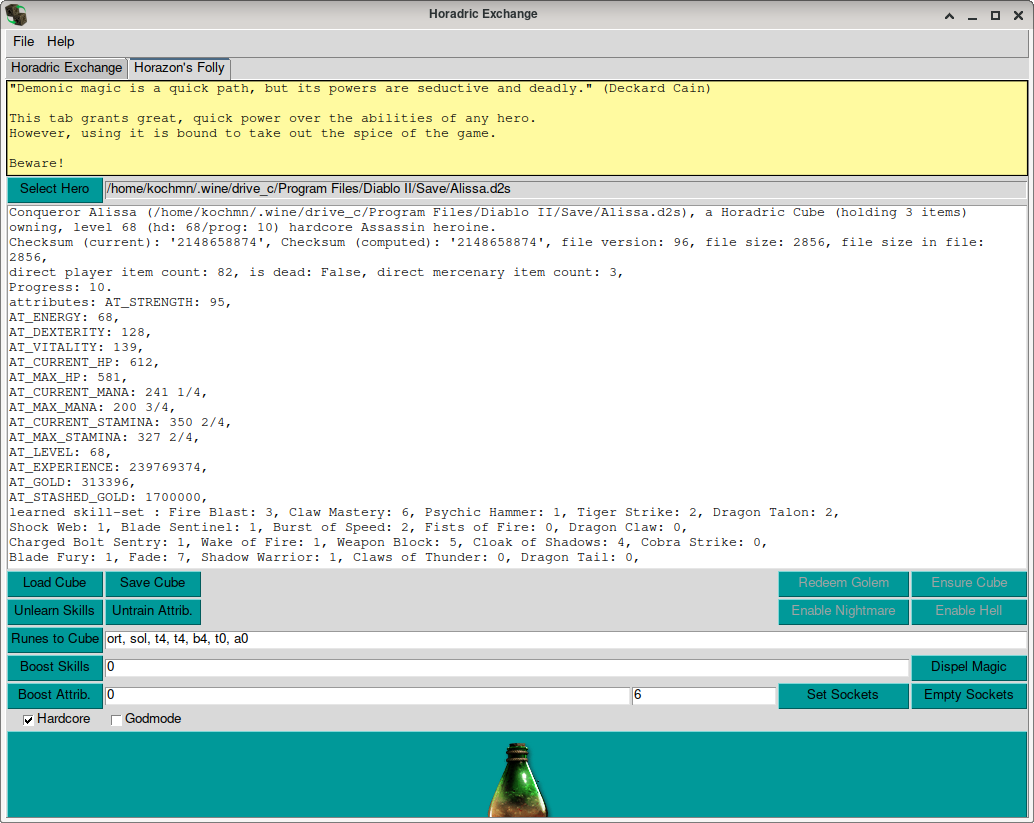
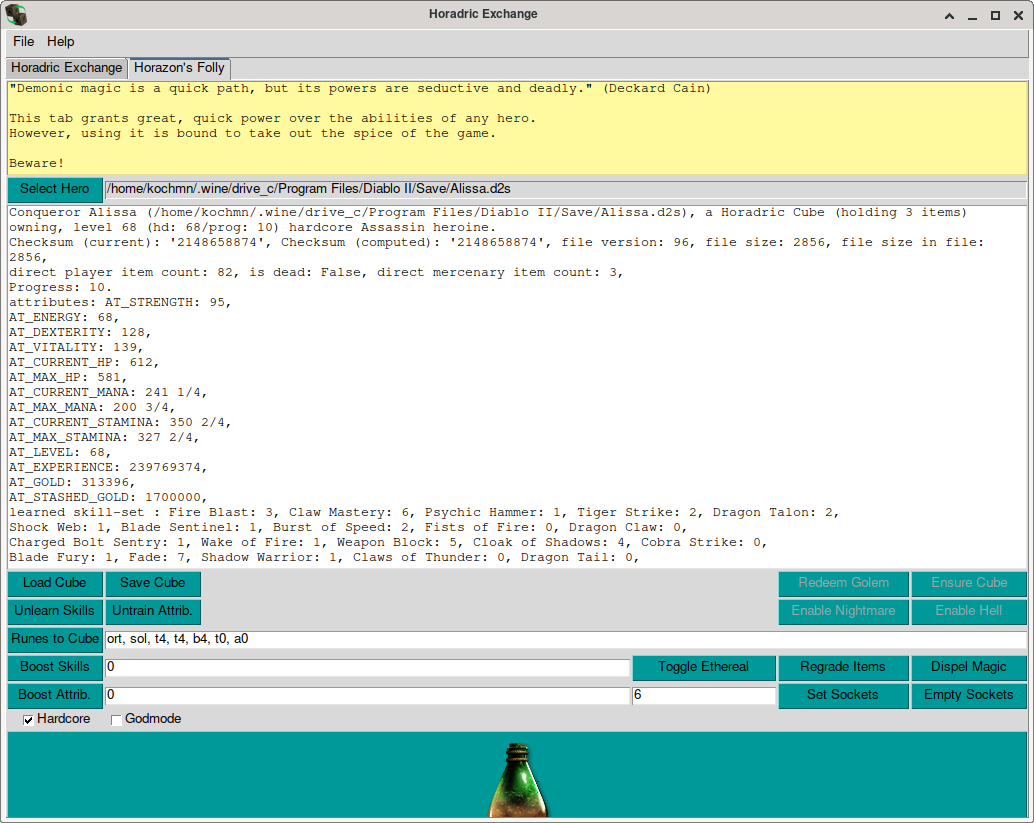
feat(hf/GUI): Completed item regrading and ethereal toggling.
Now with proper durability and defense value updates.

Changed region(s): [[0.0, 0.0, 1.0, 0.0304], [0.588, 0.7898, 0.8975, 0.8505]]

diff --git a/src/horazons_folly.py b/src/horazons_folly.py
@@ -1056,6 +1056,34 @@ class Item:
         return self.quality in (E_Quality.EQ_MAGICALLY_ENHANCED, E_Quality.EQ_RARE, E_Quality.EQ_SET, E_Quality.EQ_UNIQUE)
 
     @property
+    def is_ethereal(self) -> Optional[bool]:
+        return self.get_item_property(E_ItemBitProperties.IP_ETHEREAL)
+
+    @is_ethereal.setter
+    def is_ethereal(self, enable: bool):
+        if self.is_analytical or not (self.is_weapon or self.is_armor):
+            return
+        is_eth = self.get_item_property(E_ItemBitProperties.IP_ETHEREAL)
+        if is_eth is None or is_eth == enable:
+            return  # << Nothing to do.
+        #dur_cur, dur_max = self.durability
+        dur_max = self.durability[1]
+        ac = self.defense
+        # https://diablo.fandom.com/wiki/Ethereal_Items_(Diablo_II)
+        if ac is not None:
+            ac = round(ac * (1.5 if enable else 0.67))
+        if enable:
+            #dur_cur = round(dur_cur / 2.0 + 1)
+            dur_max = round(dur_max / 2.0 + 1)
+        else:
+            #dur_cur = round((dur_cur-1) * 2.0)
+            dur_max = round((dur_max-1) * 2.0)
+        self.data_item = self.copy_with_item_property_set(E_ItemBitProperties.IP_ETHEREAL, enable)
+        if ac is not None:
+            self.defense = ac
+        self.durability = dur_max
+
+    @property
     def is_armor(self) -> Optional[bool]:
         if self.is_analytical:
             return None
@@ -1160,7 +1188,7 @@ class Item:
         bm = bytes2bitmap(self.data_item)
         if len(bm) < 150:
             return None
-        return get_range_from_bitmap(bm, 144, 150)  # << [2] states 7 bits volume [143:150]. However, [144:150] seems better.
+        return get_range_from_bitmap(bm, 143, 150)  # << [2] states 7 bits volume [143:150]. However, [144:150] seems better.
 
     @item_level.setter
     def item_level(self, ilevel: int):
@@ -1171,7 +1199,7 @@ class Item:
         bm = bytes2bitmap(self.data_item)
         if len(bm) < 150:
             return
-        bm = set_range_to_bitmap(bm, 144, 150, ilevel)
+        bm = set_range_to_bitmap(bm, 143, 150, ilevel)
         self.data_item = bitmap2bytes(bm)
 
     @property
@@ -1219,20 +1247,40 @@ class Item:
             val = val - 10
         return val
 
+    @defense.setter
+    def defense(self, val: int):
+        index_ext = self.get_extended_item_index()
+        if index_ext is None or val is None or E_ExtProperty.EP_DEFENSE not in index_ext:
+            return
+        index = index_ext[E_ExtProperty.EP_DEFENSE]
+        if index[1] - index[0] != 11:
+            return
+        # [Note: For some reason the armor value is saved as 10 points below the true value.]
+        val += 10
+        if val >= 2**11:
+            val = (2**11) - 1
+        elif val <= 10:
+            return
+        bvalr = ('{:0{width}b}'.format(val, width = 11))[::-1]
+        bmr = bytes2bitmap(self.data_item)[::-1]
+        bmr = bmr[:index[0]] + bvalr + bmr[index[1]:]
+        bm = prefix_bitmap_to_8_product(bmr[::-1])
+        self.data_item = bitmap2bytes(bm)
+
     @property
-    def durability(self) -> Optional[str]:
-        """:returns string (current durability/maximum durability) for this Item. Or None if not applicable."""
+    def durability(self) -> Optional[Tuple[int,int]]:
+        """:returns int Tuple (current durability/maximum durability) for this Item. Or None if not applicable."""
         val = self.get_extended_item_int_value(E_ExtProperty.EP_DURABILITY)
         if val is None:
             return None
         else:
-            return f"{val >> 8}/{val & 255}"
+            return (val >> 8), (val & 255)
 
     @durability.setter
     def durability(self, dur: int):
         """Sets current/max durability of this item to ac_max/ac_max.
         :param dur in 1..255. If anywhere else, nothing will be done."""
-        if self.is_analytical or dur <= 0 or dur > 255:
+        if self.is_analytical or dur is None or dur <= 0 or dur > 255:
             return
         index_ext = self.get_extended_item_index()
         if E_ExtProperty.EP_DURABILITY not in index_ext:
@@ -1255,28 +1303,13 @@ class Item:
             return
         self.durability = d_armor_weapons[code][0]
 
-    def armor2default(self, p: float = 0.5):
+    def defense2default(self, p: float = 0.5):
         """Sets this item's armor value (if any is present) to (p * ac_max + (1-p) * ac_min)."""
         code = self.type_code
         if not code in d_armor_weapons:
             return
-        index_ext = self.get_extended_item_index()
-        if not E_ExtProperty.EP_DEFENSE in index_ext:
-            return
-        index = index_ext[E_ExtProperty.EP_DEFENSE]
-        if index[1] - index[0] != 11:
-            return
-        # [Note: For some reason the armor value is saved as 10 points below the true value.]
-        val = round((1.0 - p) * d_armor_weapons[code][1] + p * d_armor_weapons[code][2]) + 10  # type: int
-        if val >= 2**11:
-            val = (2**11) - 1
-        elif val <= 10:
-            return
-        bvalr = ('{:0{width}b}'.format(val, width = 11))[::-1]
-        bmr = bytes2bitmap(self.data_item)[::-1]
-        bmr = bmr[:index[0]] + bvalr + bmr[index[1]:]
-        bm = prefix_bitmap_to_8_product(bmr[::-1])
-        self.data_item = bitmap2bytes(bm)
+        val = round((1.0 - p) * d_armor_weapons[code][1] + p * d_armor_weapons[code][2])  # type: int
+        self.defense = val
 
     @property
     def stack(self) -> Optional[int]:
@@ -1740,9 +1773,15 @@ class Item:
             if known_mods_str:
                 known_mods_str += "\n"
 
+            dur = self.durability
+            if dur is None:
+                dur = 'n.a.'
+            else:
+                dur = f"{dur[0]}/{dur[1]}"
+
             bm_col_row_split = f"{bm[:65]} {bm[65:69]} {bm[69:72]} {bm[72:76]} {bm[76:144]} {bm[144:150]} {bm[150:154]} {bm[154:]}"
             return f"Item '{self.type_name}' ({len(self.data_item)} bytes) ({classification}) {self.item_block.name} #{self.index_item_block} personalization: '{self.personalization}', index: ({self.index_start}, {self.index_end})\n" \
-                f"Max size in inventory: {self.volume}, Defense (base): {self.defense}, Durability (base): {self.durability}, Stack: {self.stack},\n" \
+                f"Max size in inventory: {self.volume}, Defense (base): {self.defense}, Durability (base): {dur}, Stack: {self.stack},\n" \
                 f"Parent: {self.item_parent.name}, Storage: {self.stash_type.name}, (r:{self.row}, c:{self.col}), Equip: {self.item_equipped.name}\n" \
                 f"{props}\ntype code: {self.type_code}, quality: {self.quality}, ilevel: {self.item_level}, is charm: {self.is_charm}, Bit length: {bl} ({bl/8} bytes)\n" \
                 f"{known_mods_str}" \
@@ -2497,15 +2536,16 @@ this page was an excellent source for that: https://github.com/WalterCouto/D2CE/
             enable = not item.get_item_property(E_ItemBitProperties.IP_ETHEREAL)
         if item.get_item_property(E_ItemBitProperties.IP_ETHEREAL) == enable:
             return  # << Nothing to do.
-        bts = item.copy_with_item_property_set(E_ItemBitProperties.IP_ETHEREAL, enable)
-        if not bts:
-            return
-        self.data = self.data[:item.index_start] + bts + self.data[item.index_end:]
+        item.is_ethereal = enable
+        self.data = self.data[:item.index_start] + item.data_item + self.data[item.index_end:]
         print(f"Attempting to set item '{item.type_name}' to {'' if enable else 'not '}ethereal.")
 
     def regrade(self, item, grade: Optional[E_ItemGrade] = None):
         """Upgrade or downgrade the given item along the lines of normal, exceptional, elite, post-elite."""
         if item.is_analytical or (grade is not None and grade.value not in (0,1,2,3)):
+            return
+        if item.n_sockets_occupied is not None and item.n_sockets_occupied > 0:
+            _log.warning(f"Unable to regrade item '{item.type_name}' with {item.n_sockets_occupied} occupied sockets.")
             return
         type_code_old = item.type_code
         fam = ItemFamily.get_family_by_code(type_code_old)
@@ -2513,7 +2553,7 @@ this page was an excellent source for that: https://github.com/WalterCouto/D2CE/
         if fam is None:
             return
         keys = fam.code_names.keys()
-        if not keys:
+        if not keys or len(keys) < 2:
             return
         gval_new = (gval_old + 1) % len(keys)
         try:
@@ -2522,14 +2562,21 @@ this page was an excellent source for that: https://github.com/WalterCouto/D2CE/
             return
         name_old = item.type_name
         item.type_code = type_code_new
+        was_ethereal = False
+        if item.is_ethereal:
+            item.is_ethereal = False
+            was_ethereal = True
         item.durability2default()
-        item.armor2default()
-        ilevel = 32 * (gval_new - gval_old) + item.item_level
-        if ilevel < 0:
-            ilevel = 0
-        elif ilevel > 99:
-            ilevel = 99
-        item.item_level = ilevel
+        item.defense2default()
+        if item.item_level is not None:
+            ilevel = 32 * (gval_new - gval_old) + item.item_level
+            if ilevel < 0:
+                ilevel = 0
+            elif ilevel > 99:
+                ilevel = 99
+            item.item_level = ilevel
+        if was_ethereal:
+            item.is_ethereal = True
 
         _log.info(f"Attempting to create {item.item_grade} {item.type_name} from {name_old}.")
         self.data = self.data[:item.index_start] + item.data_item + self.data[item.index_end:]

diff --git a/src/horadric_exchange.py b/src/horadric_exchange.py
@@ -131,6 +131,8 @@ class Horadric_GUI:
         self.button_reset_attributes = None  # type: Optional[tk.Button]
         self.button_boost_skills = None  # type: Optional[tk.Button]
         self.button_boost_attributes = None  # type: Optional[tk.Button]
+        self.button_toggle_ethereal = None  # type: Optional[tk.Button]
+        self.button_regrade_items = None  # type: Optional[tk.Button]
         self.button_dispel_magic = None  # type: Optional[tk.Button]
         self.button_set_sockets = None  # type: Optional[tk.Button]
         self.button_empty_sockets = None  # type: Optional[tk.Button]
@@ -514,6 +516,40 @@ February 2025, Markus-H. Koch ( https://github.com/kochsoft/diablo2 )"""
         self.horadric_horazon.boost(E_Attributes.AT_UNUSED_STATS, val)
         self.ta_insert_character_data(self.horadric_horazon, data.pfname, self.ta_hero)
 
+    def needs_toggle_ethereal(self):
+        data = self.verify_hero()
+        if not data:
+            return False
+        for item in Item(data.data).get_cube_contents():
+            if item.is_armor or item.is_weapon:
+                return True
+        return False
+
+    def toggle_ethereal(self):
+        data = self.verify_hero()
+        if not data:
+            return
+        self.horadric_horazon.toggle_ethereal(data)
+        self.ta_insert_character_data(self.horadric_horazon, data.pfname, self.ta_hero)
+
+    def needs_regrade_items(self):
+        """Should the regrade items button be active?"""
+        data = self.verify_hero()
+        if not data:
+            return False
+        for item in Item(data.data).get_cube_contents():
+            fam = ItemFamily.get_family_by_code(item.type_code)
+            if fam and len(fam.code_names) >= 2:
+                return True
+        return False
+
+    def regrade_items(self):
+        data = self.verify_hero()
+        if not data:
+            return
+        self.horadric_horazon.regrade_horadric(data)
+        self.ta_insert_character_data(self.horadric_horazon, data.pfname, self.ta_hero)
+
     def needs_dispel_magic(self) -> bool:
         """Does the Horadric Cube contain any magic items? (Or should the dispel-magic-button be disabled?)"""
         data = self.verify_hero()
@@ -589,7 +625,8 @@ February 2025, Markus-H. Koch ( https://github.com/kochsoft/diablo2 )"""
                        self.check_hardcore, self.check_godmode, self.entry_boost_skills, self.entry_runic_cube,
                        self.entry_boost_attributes, self.entry_set_sockets, self.button_horazon, self.button_ensure_cube,
                        self.button_enable_nightmare, self.button_enable_hell, self.button_redeem_golem,
-                       self.button_dispel_magic, self.button_set_sockets, self.button_empty_sockets]:
+                       self.button_toggle_ethereal, self.button_regrade_items, self.button_dispel_magic,
+                       self.button_set_sockets, self.button_empty_sockets]:
             if enable:
                 widget.config(state='normal')
             else:
@@ -600,6 +637,10 @@ February 2025, Markus-H. Koch ( https://github.com/kochsoft/diablo2 )"""
                 self.button_redeem_golem.config(state='disabled')
             if not self.needs_dispel_magic():
                 self.button_dispel_magic.config(state='disabled')
+            if not self.needs_toggle_ethereal():
+                self.button_toggle_ethereal.config(state='disabled')
+            if not self.needs_regrade_items():
+                self.button_regrade_items.config(state='disabled')
             if not self.needs_empty_sockets():
                 self.button_empty_sockets.config(state='disabled')
             if not data.has_horadric_cube:
@@ -783,7 +824,7 @@ Beware!"""
         var_skills = tk.StringVar()
         var_skills.set('0')
         self.entry_boost_skills = tk.Entry(self.tab2, textvariable=var_skills)
-        self.entry_boost_skills.grid(row=6, column=1, columnspan=3, sticky='ew')
+        self.entry_boost_skills.grid(row=6, column=1, columnspan=1, sticky='ew')
         self.button_boost_skills = tk.Button(self.tab2, text='Boost Skills', command=self.boost_skills, width=10, height=1, bg='#009999')
         self.button_boost_skills.grid(row=6, column=0)
         Hovertip(self.button_boost_skills, 'Set free skill points to this value.')
@@ -795,6 +836,14 @@ Beware!"""
         self.button_boost_attributes = tk.Button(self.tab2, text='Boost Attrib.', command=self.boost_attributes, width=10, height=1, bg='#009999')
         self.button_boost_attributes.grid(row=7, column=0)
         Hovertip(self.button_boost_attributes, 'Set free attribute points to this value.')
+
+        self.button_toggle_ethereal = tk.Button(self.tab2, text='Toggle Ethereal', command=self.toggle_ethereal, bg='#009999')
+        self.button_toggle_ethereal.grid(row=6, column=2, sticky='ew')
+        Hovertip(self.button_toggle_ethereal, 'Toggles the ethereal state of items within the Horadric Cube.')
+
+        self.button_regrade_items = tk.Button(self.tab2, text='Regrade Items', command=self.regrade_items, bg='#009999')
+        self.button_regrade_items.grid(row=6, column=3, sticky='ew')
+        Hovertip(self.button_regrade_items, 'Regrades items in the Horadric Cube cyclically. Normal->Elite->..->Normal.')
 
         self.button_dispel_magic = tk.Button(self.tab2, text='Dispel Magic', command=self.dispel_magic, bg='#009999')
         self.button_dispel_magic.grid(row=6, column=4, sticky='ew')
